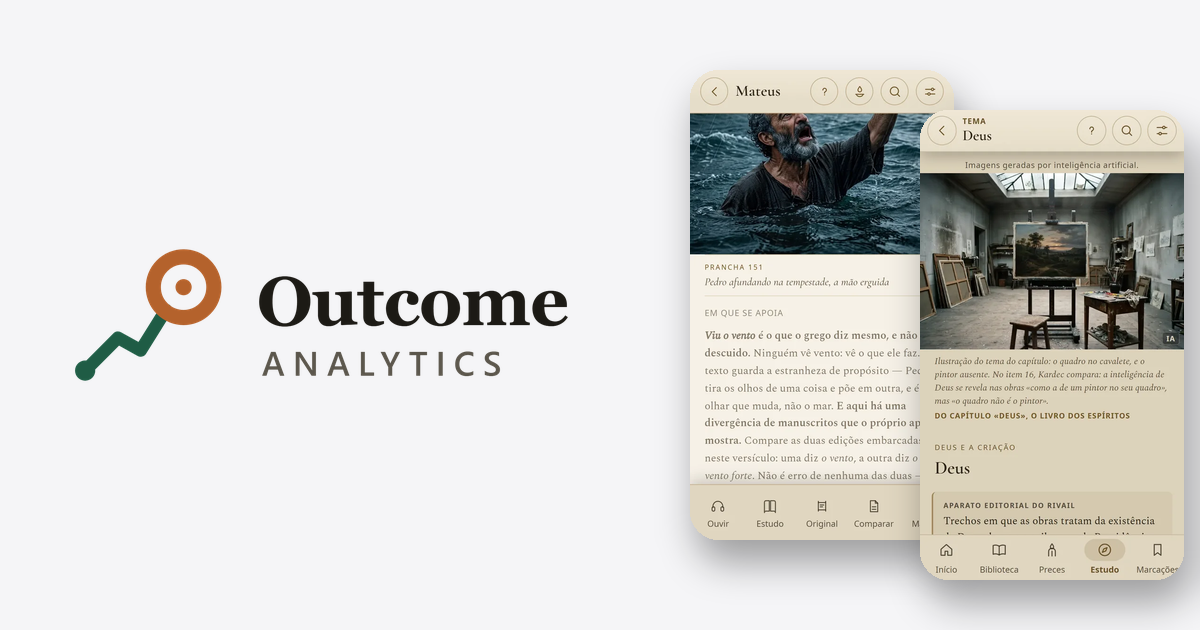
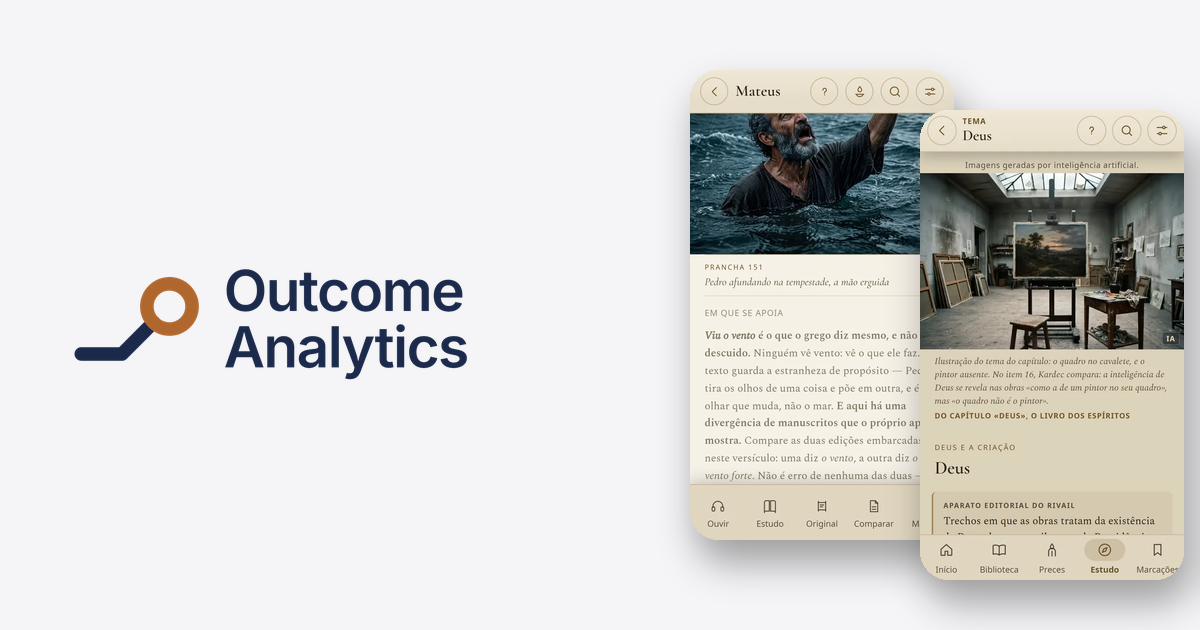
Marca: azul-tinta e cobre; símbolo refinado (bancada que sobe a 45° até o anel)

Changed region(s): [[0.0617, 0.3921, 0.4933, 0.6032]]

diff --git a/estilo.css b/estilo.css
@@ -2,8 +2,9 @@
    Layout: o produto é a peça; faixas largas alternam branco e cinza claro; uma cor só de ação (o verde da marca);
    o cobre fica só no logo. Letra do sistema (SF no iPhone e no Mac, Segoe no Windows). Ver MARCA.md §6. */
 :root {
-  --tela: #FFFFFF; --faixa: #F5F5F7; --tinta: #1D1D1F; --tinta-2: #6E6E73; --linha: #D2D2D7;
-  --acao: #1F5C45; --acao-forte: #17493A; --cobre: #A85A27;
+  /* 17/10: azul-tinta + cobre (MARCA.md §6 — confiança e competência de editora; o cobre é o pad de solda da bancada) */
+  --tela: #FFFFFF; --faixa: #F5F5F7; --tinta: #14182A; --tinta-2: #4A5060; --linha: #D6D8DE;
+  --marca: #1B2A4A; --acao: #1B2A4A; --acao-forte: #0F1A33; --cobre: #B0672E;
   --letra: -apple-system, BlinkMacSystemFont, "SF Pro Display", "SF Pro Text", "Segoe UI Variable Display", "Segoe UI", Roboto, "Helvetica Neue", Arial, sans-serif;
   --largura: 980px; --leitura: 42rem;
   color-scheme: light;
@@ -24,15 +25,15 @@ a, button { touch-action: manipulation; }
 
 /* navegação translúcida */
 .topo { position: sticky; top: env(safe-area-inset-top, 0px); z-index: 10; background: rgba(255, 255, 255, .8);
-        -webkit-backdrop-filter: saturate(180%) blur(20px); backdrop-filter: saturate(180%) blur(20px); border-bottom: 1px solid rgba(0, 0, 0, .08); }
+        -webkit-backdrop-filter: saturate(180%) blur(20px); backdrop-filter: saturate(180%) blur(20px); border-bottom: 1px solid rgba(20, 24, 42, .08); }
 .topo .largura { display: flex; align-items: center; justify-content: space-between; gap: 1rem; min-height: 52px; }
 .marca { display: flex; align-items: center; gap: .5rem; color: var(--tinta); font-weight: 600; font-size: 1rem; letter-spacing: -.01em; min-height: 48px; }
 .marca:hover { text-decoration: none; }
 .simbolo { width: 26px; height: 26px; flex: none; }
-.s-trilha { fill: none; stroke: var(--acao); stroke-width: 5; stroke-linecap: round; stroke-linejoin: round; }
-.s-base { fill: var(--acao); }
+.s-trilha { fill: none; stroke: var(--marca); stroke-width: 6; stroke-linecap: round; stroke-linejoin: round; }
 .s-pad { fill: none; stroke: var(--cobre); stroke-width: 6; }
-.s-furo { fill: var(--cobre); }
+.titulo-gigante, .titulo { color: var(--marca); }
+a.seta, .links a { text-decoration: underline; text-decoration-color: var(--cobre); text-underline-offset: .25em; }
 .topo nav { display: flex; gap: .25rem; }
 .topo nav a { color: var(--tinta); font-size: .82rem; padding: 0 .7rem; min-height: 48px; display: inline-flex; align-items: center; opacity: .85; }
 .topo nav a:hover { opacity: 1; text-decoration: none; }
@@ -62,11 +63,11 @@ a, button { touch-action: manipulation; }
 /* abertura */
 .abertura { padding-top: clamp(3rem, 8vw, 5.5rem); padding-bottom: 0; overflow: hidden; }
 .vitrine { display: flex; justify-content: center; align-items: flex-end; gap: clamp(1rem, 4vw, 2.5rem); margin-top: clamp(2.5rem, 6vw, 4rem); }
-.vitrine img { width: clamp(150px, 28vw, 280px); border-radius: clamp(20px, 3vw, 36px); box-shadow: 0 30px 60px -30px rgba(0, 0, 0, .35); }
+.vitrine img { width: clamp(150px, 28vw, 280px); border-radius: clamp(20px, 3vw, 36px); box-shadow: 0 30px 60px -30px rgba(20, 24, 42, .35); }
 .vitrine img:last-child { margin-bottom: clamp(1.5rem, 5vw, 3.5rem); }
 
 /* app em destaque na página inicial */
-.app-destaque .tela { margin: clamp(2.5rem, 6vw, 3.5rem) auto 0; width: clamp(200px, 34vw, 300px); border-radius: 34px; box-shadow: 0 30px 60px -30px rgba(0, 0, 0, .35); }
+.app-destaque .tela { margin: clamp(2.5rem, 6vw, 3.5rem) auto 0; width: clamp(200px, 34vw, 300px); border-radius: 34px; box-shadow: 0 30px 60px -30px rgba(20, 24, 42, .35); }
 .lojas { display: flex; gap: .75rem; flex-wrap: wrap; justify-content: center; margin-top: 1.5rem; }
 .selo { display: inline-flex; border-radius: 9px; }
 .selo img { height: 48px; width: auto; }
@@ -87,7 +88,7 @@ a, button { touch-action: manipulation; }
 .recursos .bloco ul { margin: .75rem 0 0; padding-left: 1.1rem; color: var(--tinta-2); display: grid; gap: .45rem; }
 .galeria { display: flex; gap: 1.25rem; overflow-x: auto; padding: 2.5rem 22px 1rem; scroll-snap-type: x mandatory; justify-content: safe center; }
 .galeria figure { margin: 0; flex: 0 0 auto; width: clamp(180px, 24vw, 240px); scroll-snap-align: center; }
-.galeria img { border-radius: 26px; box-shadow: 0 20px 40px -24px rgba(0, 0, 0, .35); }
+.galeria img { border-radius: 26px; box-shadow: 0 20px 40px -24px rgba(20, 24, 42, .35); }
 .galeria figcaption { font-size: .9rem; color: var(--tinta-2); margin-top: .6rem; }
 .preco { font-size: .95rem; color: var(--tinta-2); margin: 1rem auto 0; max-width: var(--leitura); }
 .lojas + .preco { margin-top: .9rem; }
@@ -108,7 +109,7 @@ a, button { touch-action: manipulation; }
                 padding-right: max(22px, env(safe-area-inset-right, 0px), calc(50vw - var(--largura) / 2 + 22px));
                 scroll-padding-left: max(22px, calc(50vw - var(--largura) / 2 + 22px)); }
 .vitrine-loja figure { margin: 0; flex: 0 0 auto; width: clamp(170px, 19vw, 230px); scroll-snap-align: start; }
-.vitrine-loja img { border-radius: 20px; box-shadow: 0 2px 6px rgba(0, 0, 0, .06), 0 18px 36px -14px rgba(0, 0, 0, .3); }
+.vitrine-loja img { border-radius: 20px; box-shadow: 0 2px 6px rgba(20, 24, 42, .06), 0 18px 36px -14px rgba(20, 24, 42, .3); }
 .vitrine-loja:focus-visible { outline-offset: -3px; }
 .entrega { max-width: 56rem; margin: 2rem auto 0; text-align: left; }
 .entrega h3 { font-size: 1.5rem; font-weight: 700; letter-spacing: -.02em; margin: 0 0 1.25rem; text-align: center; }
@@ -122,7 +123,7 @@ a, button { touch-action: manipulation; }
 .documento { max-width: 44rem; margin: 0 auto; padding-top: clamp(2.5rem, 7vw, 4.5rem); padding-bottom: 4rem; }
 .documento h1 { font-size: clamp(2rem, 5vw, 2.8rem); line-height: 1.1; font-weight: 700; letter-spacing: -.03em; margin: 0 0 .5rem; }
 .documento h2 { font-size: 1.35rem; font-weight: 700; letter-spacing: -.02em; margin: 2.25rem 0 .5rem; }
-.documento p, .documento li { color: #333336; }
+.documento p, .documento li { color: var(--tinta); }
 .documento .data { color: var(--tinta-2); margin-top: 0; }
 .documento .resumo { background: var(--faixa); border-radius: 14px; padding: 1.1rem 1.25rem; }
 .documento table { border-collapse: collapse; width: 100%; font-size: .95rem; }
@@ -157,16 +158,16 @@ a, button { touch-action: manipulation; }
 }
 /* sombra: as telas flutuam sobre a faixa, como produto em vitrine; os blocos ganham relevo leve */
 .vitrine img, .app-destaque .tela, .galeria img {
-  box-shadow: 0 2px 6px rgba(0, 0, 0, .06), 0 18px 36px -12px rgba(0, 0, 0, .22), 0 48px 90px -36px rgba(0, 0, 0, .45); }
-.bloco { box-shadow: 0 1px 2px rgba(0, 0, 0, .04), 0 12px 30px -18px rgba(0, 0, 0, .22); }
-.selo { box-shadow: 0 8px 20px -10px rgba(0, 0, 0, .45); }
+  box-shadow: 0 2px 6px rgba(20, 24, 42, .06), 0 18px 36px -12px rgba(20, 24, 42, .22), 0 48px 90px -36px rgba(20, 24, 42, .45); }
+.bloco { box-shadow: 0 1px 2px rgba(20, 24, 42, .04), 0 12px 30px -18px rgba(20, 24, 42, .22); }
+.selo { box-shadow: 0 8px 20px -10px rgba(20, 24, 42, .45); }
 .galeria figcaption strong { color: var(--tinta); font-weight: 600; }
 
 /* movimento: um momento na abertura (as telas sobem ao abrir) e as telas dos apps crescem ao entrar na rolagem.
    Sem suporte a animação por rolagem, ou com «reduzir movimento», a página fica parada e completa. */
 @media (prefers-reduced-motion: no-preference) {
   .pilula, .selo, .topo nav a, .bloco { transition: background-color .3s, color .3s, opacity .3s, transform .3s, box-shadow .3s; }
-  .bloco:hover { transform: translateY(-4px); box-shadow: 0 1px 2px rgba(0, 0, 0, .05), 0 22px 40px -18px rgba(0, 0, 0, .3); }
+  .bloco:hover { transform: translateY(-4px); box-shadow: 0 1px 2px rgba(20, 24, 42, .05), 0 22px 40px -18px rgba(20, 24, 42, .3); }
   .selo:hover { transform: translateY(-2px); }
   @keyframes subir { from { transform: translateY(40px); } to { transform: none; } }
   .vitrine img { animation: subir .9s cubic-bezier(.2, .7, .2, 1) both; }

diff --git a/privacidade/index.html b/privacidade/index.html
@@ -23,7 +23,7 @@
 <a class="pular" href="#conteudo">Pular para o conteúdo</a>
 <header class="topo">
   <div class="largura">
-    <a class="marca" href="../" aria-label="Outcome Analytics, início"><svg class="simbolo" viewBox="0 0 64 64" width="26" height="26" aria-hidden="true"><path class="s-trilha" d="M6 54 L19 41 L28 46 L38 30"/><circle class="s-base" cx="6" cy="54" r="4"/><circle class="s-pad" cx="45" cy="21" r="12"/><circle class="s-furo" cx="45" cy="21" r="3.2"/></svg><span translate="no">Outcome Analytics</span></a>
+    <a class="marca" href="../" aria-label="Outcome Analytics, início"><svg class="simbolo" viewBox="0 0 64 64" width="26" height="26" aria-hidden="true"><path class="s-trilha" d="M5 49 H23 L37 35"/><circle class="s-pad" cx="44" cy="28" r="10"/></svg><span translate="no">Outcome Analytics</span></a>
     <nav aria-label="Principal">
       <a href="../siloe/" translate="no">Siloé</a>
       <a href="../rivail/" translate="no">Rivail</a>

diff --git a/rivail/index.html b/rivail/index.html
@@ -24,7 +24,7 @@
 <a class="pular" href="#conteudo">Pular para o conteúdo</a>
 <header class="topo">
   <div class="largura">
-    <a class="marca" href="../" aria-label="Outcome Analytics, início"><svg class="simbolo" viewBox="0 0 64 64" width="26" height="26" aria-hidden="true"><path class="s-trilha" d="M6 54 L19 41 L28 46 L38 30"/><circle class="s-base" cx="6" cy="54" r="4"/><circle class="s-pad" cx="45" cy="21" r="12"/><circle class="s-furo" cx="45" cy="21" r="3.2"/></svg><span translate="no">Outcome Analytics</span></a>
+    <a class="marca" href="../" aria-label="Outcome Analytics, início"><svg class="simbolo" viewBox="0 0 64 64" width="26" height="26" aria-hidden="true"><path class="s-trilha" d="M5 49 H23 L37 35"/><circle class="s-pad" cx="44" cy="28" r="10"/></svg><span translate="no">Outcome Analytics</span></a>
     <nav aria-label="Principal">
       <a href="../siloe/" translate="no">Siloé</a>
       <a href="../rivail/" translate="no">Rivail</a>

diff --git a/rivail/privacidade.html b/rivail/privacidade.html
@@ -23,7 +23,7 @@
 <a class="pular" href="#conteudo">Pular para o conteúdo</a>
 <header class="topo">
   <div class="largura">
-    <a class="marca" href="../" aria-label="Outcome Analytics, início"><svg class="simbolo" viewBox="0 0 64 64" width="26" height="26" aria-hidden="true"><path class="s-trilha" d="M6 54 L19 41 L28 46 L38 30"/><circle class="s-base" cx="6" cy="54" r="4"/><circle class="s-pad" cx="45" cy="21" r="12"/><circle class="s-furo" cx="45" cy="21" r="3.2"/></svg><span translate="no">Outcome Analytics</span></a>
+    <a class="marca" href="../" aria-label="Outcome Analytics, início"><svg class="simbolo" viewBox="0 0 64 64" width="26" height="26" aria-hidden="true"><path class="s-trilha" d="M5 49 H23 L37 35"/><circle class="s-pad" cx="44" cy="28" r="10"/></svg><span translate="no">Outcome Analytics</span></a>
     <nav aria-label="Principal">
       <a href="../siloe/" translate="no">Siloé</a>
       <a href="../rivail/" translate="no">Rivail</a>

diff --git a/siloe/index.html b/siloe/index.html
@@ -24,7 +24,7 @@
 <a class="pular" href="#conteudo">Pular para o conteúdo</a>
 <header class="topo">
   <div class="largura">
-    <a class="marca" href="../" aria-label="Outcome Analytics, início"><svg class="simbolo" viewBox="0 0 64 64" width="26" height="26" aria-hidden="true"><path class="s-trilha" d="M6 54 L19 41 L28 46 L38 30"/><circle class="s-base" cx="6" cy="54" r="4"/><circle class="s-pad" cx="45" cy="21" r="12"/><circle class="s-furo" cx="45" cy="21" r="3.2"/></svg><span translate="no">Outcome Analytics</span></a>
+    <a class="marca" href="../" aria-label="Outcome Analytics, início"><svg class="simbolo" viewBox="0 0 64 64" width="26" height="26" aria-hidden="true"><path class="s-trilha" d="M5 49 H23 L37 35"/><circle class="s-pad" cx="44" cy="28" r="10"/></svg><span translate="no">Outcome Analytics</span></a>
     <nav aria-label="Principal">
       <a href="../siloe/" translate="no">Siloé</a>
       <a href="../rivail/" translate="no">Rivail</a>

diff --git a/siloe/privacidade.html b/siloe/privacidade.html
@@ -23,7 +23,7 @@
 <a class="pular" href="#conteudo">Pular para o conteúdo</a>
 <header class="topo">
   <div class="largura">
-    <a class="marca" href="../" aria-label="Outcome Analytics, início"><svg class="simbolo" viewBox="0 0 64 64" width="26" height="26" aria-hidden="true"><path class="s-trilha" d="M6 54 L19 41 L28 46 L38 30"/><circle class="s-base" cx="6" cy="54" r="4"/><circle class="s-pad" cx="45" cy="21" r="12"/><circle class="s-furo" cx="45" cy="21" r="3.2"/></svg><span translate="no">Outcome Analytics</span></a>
+    <a class="marca" href="../" aria-label="Outcome Analytics, início"><svg class="simbolo" viewBox="0 0 64 64" width="26" height="26" aria-hidden="true"><path class="s-trilha" d="M5 49 H23 L37 35"/><circle class="s-pad" cx="44" cy="28" r="10"/></svg><span translate="no">Outcome Analytics</span></a>
     <nav aria-label="Principal">
       <a href="../siloe/" translate="no">Siloé</a>
       <a href="../rivail/" translate="no">Rivail</a>

diff --git a/index.html b/index.html
@@ -23,7 +23,7 @@
 <a class="pular" href="#conteudo">Pular para o conteúdo</a>
 <header class="topo">
   <div class="largura">
-    <a class="marca" href="" aria-label="Outcome Analytics, início"><svg class="simbolo" viewBox="0 0 64 64" width="26" height="26" aria-hidden="true"><path class="s-trilha" d="M6 54 L19 41 L28 46 L38 30"/><circle class="s-base" cx="6" cy="54" r="4"/><circle class="s-pad" cx="45" cy="21" r="12"/><circle class="s-furo" cx="45" cy="21" r="3.2"/></svg><span translate="no">Outcome Analytics</span></a>
+    <a class="marca" href="" aria-label="Outcome Analytics, início"><svg class="simbolo" viewBox="0 0 64 64" width="26" height="26" aria-hidden="true"><path class="s-trilha" d="M5 49 H23 L37 35"/><circle class="s-pad" cx="44" cy="28" r="10"/></svg><span translate="no">Outcome Analytics</span></a>
     <nav aria-label="Principal">
       <a href="siloe/" translate="no">Siloé</a>
       <a href="rivail/" translate="no">Rivail</a>
